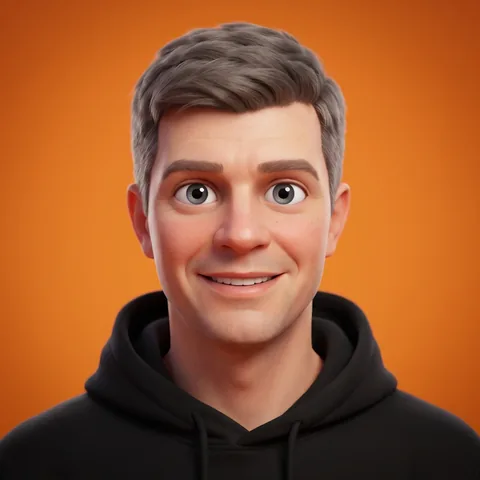
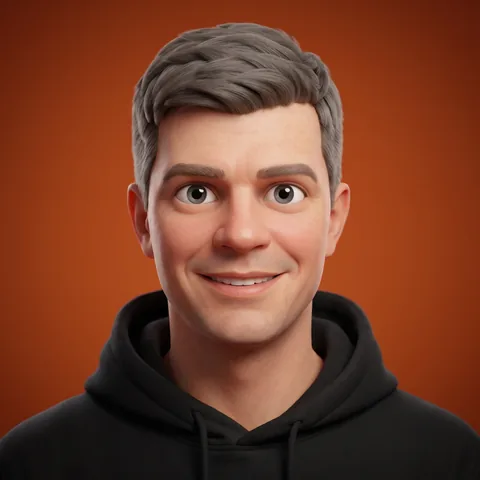
Agents diagram: new portrait for Tomasz

diff --git a/index.html b/index.html
@@ -872,7 +872,7 @@ main > section { scroll-margin-top: 0; }
 
       <div class="grid12">
         <div class="crew col-body" data-reveal>
-          <div class="crew-me od-row"><img class="od-fixed" src="assets/agents/tomasz.webp" alt="Tomasz’s avatar: a cartoon man with short grey-brown hair in a black hoodie on an orange background" width="480" height="480" loading="lazy"><span class="od-field"><span class="crew-name">Tomasz</span><span class="mono-label">One person, AI orchestrator</span></span></div>
+          <div class="crew-me od-row"><img class="od-fixed" src="assets/agents/tomasz.webp" alt="Tomasz’s avatar: a cartoon man with short grey-brown hair in a black hoodie on a dark orange background" width="480" height="480" loading="lazy"><span class="od-field"><span class="crew-name">Tomasz</span><span class="mono-label">One person, AI orchestrator</span></span></div>
           <span class="crew-link" aria-hidden="true"></span>
           <div class="crew-hub od-row-top">
             <img class="od-fixed" src="assets/agents/hermes-agent.svg" alt="Hermes Agent logo" width="56" height="56" loading="lazy">
